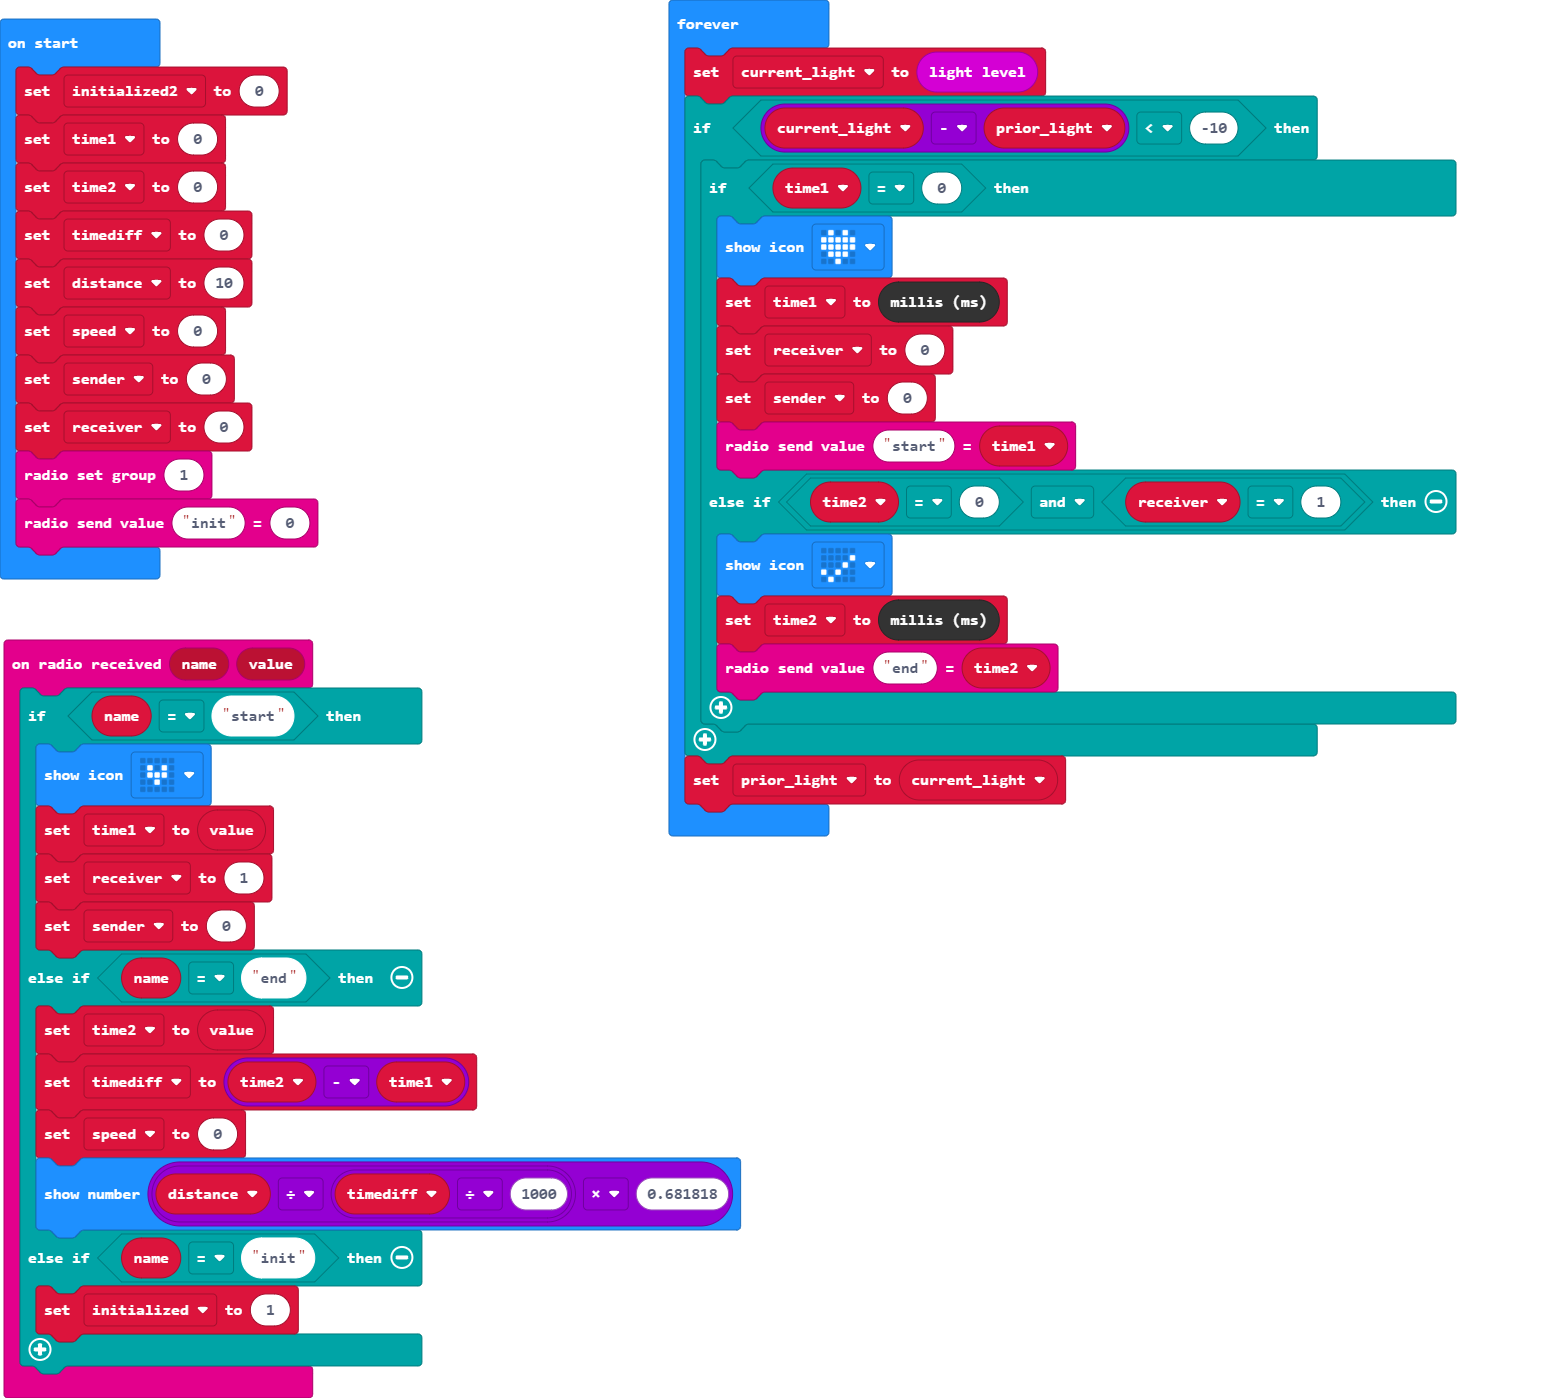
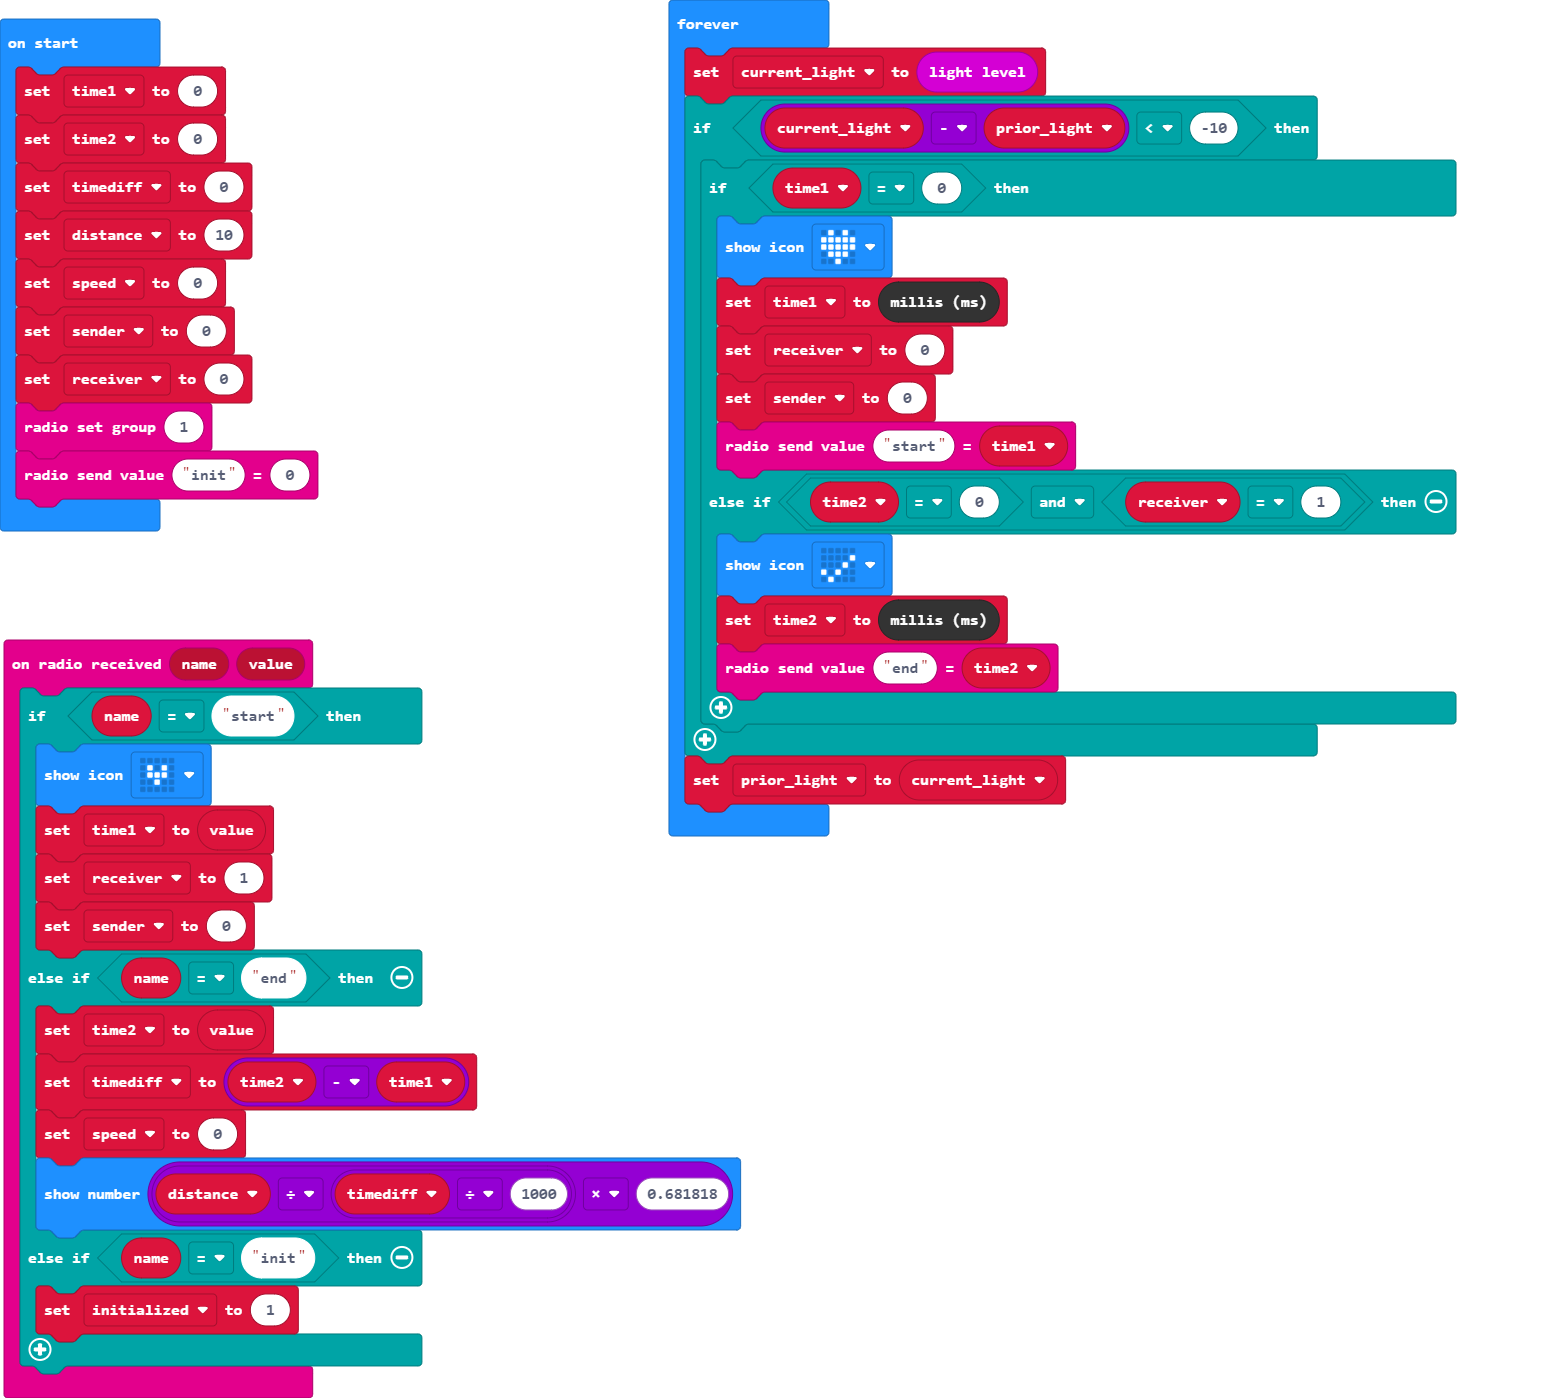
Removing redundant variable

Changed region(s): [[0.0, 0.123, 0.2154, 0.4306], [0.0615, 0.0308, 0.1846, 0.0923]]

diff --git a/main.ts b/main.ts
@@ -23,7 +23,6 @@ let distance = 0
 let timediff = 0
 let time2 = 0
 let time1 = 0
-let initialized2 = 0
 time1 = 0
 time2 = 0
 timediff = 0
